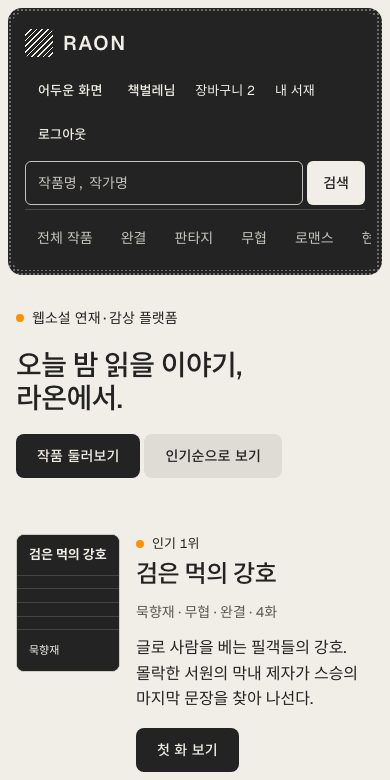
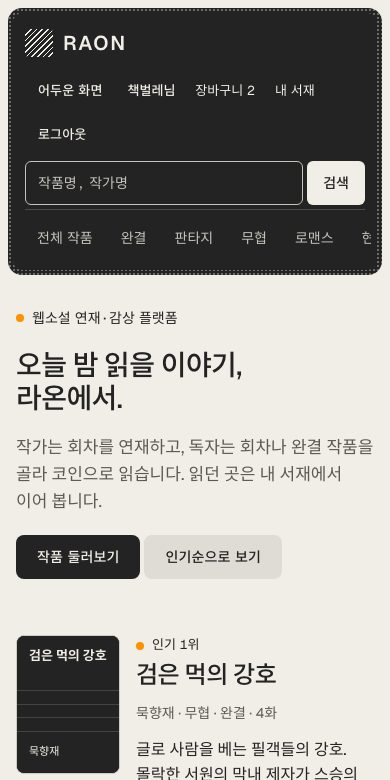
홈 첫 화면의 고정 id와 숨겨지는 소개 문장 수정
- 제목 id를 useId로 바꿔 숨겨진 화면과 겹치지 않게 함
- 좁은 화면과 확대 시에도 소개 문장을 유지하고 장식 나선만 뺌

Changed region(s): [[0.0308, 0.6769, 0.9231, 1.0], [0.0308, 0.5538, 0.9538, 0.6462]]

diff --git a/apps/web/src/widgets/home-hero/ui/home-hero.tsx b/apps/web/src/widgets/home-hero/ui/home-hero.tsx
@@ -1,13 +1,15 @@
+import { useId } from "react";
 import { ButtonLink } from "@/shared/ui";
 import styles from "./home-hero.module.scss";
 import { TypeSpiral } from "./type-spiral";
 
 export function HomeHero() {
+  const titleId = useId();
   return (
-    <section className={styles.hero} aria-labelledby="home-hero-title">
+    <section className={styles.hero} aria-labelledby={titleId}>
       <div className={styles.copy}>
         <p className={styles.kicker}>웹소설 연재·감상 플랫폼</p>
-        <h1 id="home-hero-title" className={styles.title}>
+        <h1 id={titleId} className={styles.title}>
           오늘 밤 읽을 이야기,
           <br />
           라온에서.

diff --git a/apps/web/e2e/reader.spec.ts b/apps/web/e2e/reader.spec.ts
@@ -187,9 +187,10 @@ test("태그와 별점순으로 찾고, 뱃지를 글자로 보여 준다", asyn
   await expect(page.getByText("인기", { exact: true }).first()).toBeVisible();
 });
 
-test("모바일 첫 화면에서 추천 작품이 보인다", async ({ page }) => {
+test("모바일 첫 화면에서 소개 문장과 추천 작품이 함께 보인다", async ({ page }) => {
   await page.setViewportSize({ width: 390, height: 780 });
   await page.goto("/");
+  await expect(page.getByText("작가는 회차를 연재하고")).toBeVisible();
   await expect(page.getByRole("region", { name: "추천 작품" }).getByRole("heading", { level: 2 })).toBeInViewport();
 });
 

diff --git a/apps/web/src/widgets/home-hero/ui/home-hero.test.tsx b/apps/web/src/widgets/home-hero/ui/home-hero.test.tsx
@@ -8,6 +8,17 @@ it("화면의 제목과 작품으로 가는 링크를 제공한다", () => {
   expect(screen.getByRole("link", { name: "작품 둘러보기" })).toHaveAttribute("href", "/works");
 });
 
+it("제목 id를 고정하지 않아 숨겨진 화면과 겹치지 않는다", () => {
+  const { container } = render(
+    <>
+      <HomeHero />
+      <HomeHero />
+    </>,
+  );
+  const ids = [...container.querySelectorAll("h1")].map((heading) => heading.id);
+  expect(new Set(ids).size).toBe(2);
+});
+
 it("나선은 장식이라 보조 기술에 노출하지 않는다", () => {
   render(<HomeHero />);
   const spiral = screen.getByTestId("type-spiral");

diff --git a/apps/web/src/widgets/home-hero/ui/home-hero.module.scss b/apps/web/src/widgets/home-hero/ui/home-hero.module.scss
@@ -47,16 +47,10 @@
   line-height: 1.15;
 }
 
-/* 좁은 화면에서는 작품이 첫 화면에 보이도록 소개 문장과 장식을 뺀다. */
 .lead {
-  display: none;
   max-width: 32rem;
   color: var(--muted);
   font-size: 1.0625rem;
-
-  @media (width >= 48rem) {
-    display: block;
-  }
 }
 
 .actions {
@@ -65,6 +59,7 @@
   gap: 0.25rem;
 }
 
+/* 좁은 화면에서는 작품이 첫 화면에 보이도록 장식 나선만 뺀다. 확대해도 내용은 사라지지 않는다. */
 .art {
   display: none;
   position: relative;

diff --git a/CHANGELOG.md b/CHANGELOG.md
@@ -2,6 +2,7 @@
 
 | 버전   | 날짜       | 내용                                                                                                                                                                                                                                                                                                                                                                                                                                                                                                                                                                                                  |
 | ------ | ---------- | ----------------------------------------------------------------------------------------------------------------------------------------------------------------------------------------------------------------------------------------------------------------------------------------------------------------------------------------------------------------------------------------------------------------------------------------------------------------------------------------------------------------------------------------------------------------------------------------------------- |
+| -      | 2026.11.6. | - 홈 첫 화면: 제목 고정 `id`를 `useId`로 변경(숨겨진 화면 규칙), 좁은 화면과 확대 시에도 소개 문장 유지                                                                                                                                                                                                                                                                                                                                                                                                                                                                                               |
 | -      | 2026.11.6. | - 디자인 개편: 오프화이트·차콜 색, Geist와 Geist Mono 글꼴, 둥근 버튼과 입력 칸, 어두운 머리글·푸터·에디터 도구 모음, 홈 첫 화면과 글자 나선 장식<br>- 수정: 별점 저장 뒤 화면을 새로 받기 전에 다시 누르면 지우지 않고 같은 점수를 다시 저장하던 문제                                                                                                                                                                                                                                                                                                                                                |
 | -      | 2026.11.5. | - 회차 에디터: 다시 읽기 실패 원인을 그대로 안내(네트워크 문구는 연결 실패일 때만), 다시 시도 뒤 초점 유지와 완료 알림<br>- 세션이 없을 때 서버 액션이 로그인 화면으로 리다이렉트되어 네트워크 오류처럼 보이던 문제 수정<br>- README 기술 스택 아이콘에 Storybook, GitHub Actions 추가                                                                                                                                                                                                                                                                                                                |
 | -      | 2026.11.5. | - 배포하지 않으므로 Dockerfile과 CD 워크플로 삭제, README에 Claude 도움 표기<br>- 메인 배너가 항상 3장이 되도록 수정, 스토리·테스트와 스크린샷 보강<br>- 에디터: 화면을 숨겼다 돌아오면 최신 회차로 새로 시작(제목과 본문이 뒤섞이던 문제 수정), 자동 저장 실패 상태로 나갈 때 확인, 초안 삭제 후 초점 유지                                                                                                                                                                                                                                                                                           |
